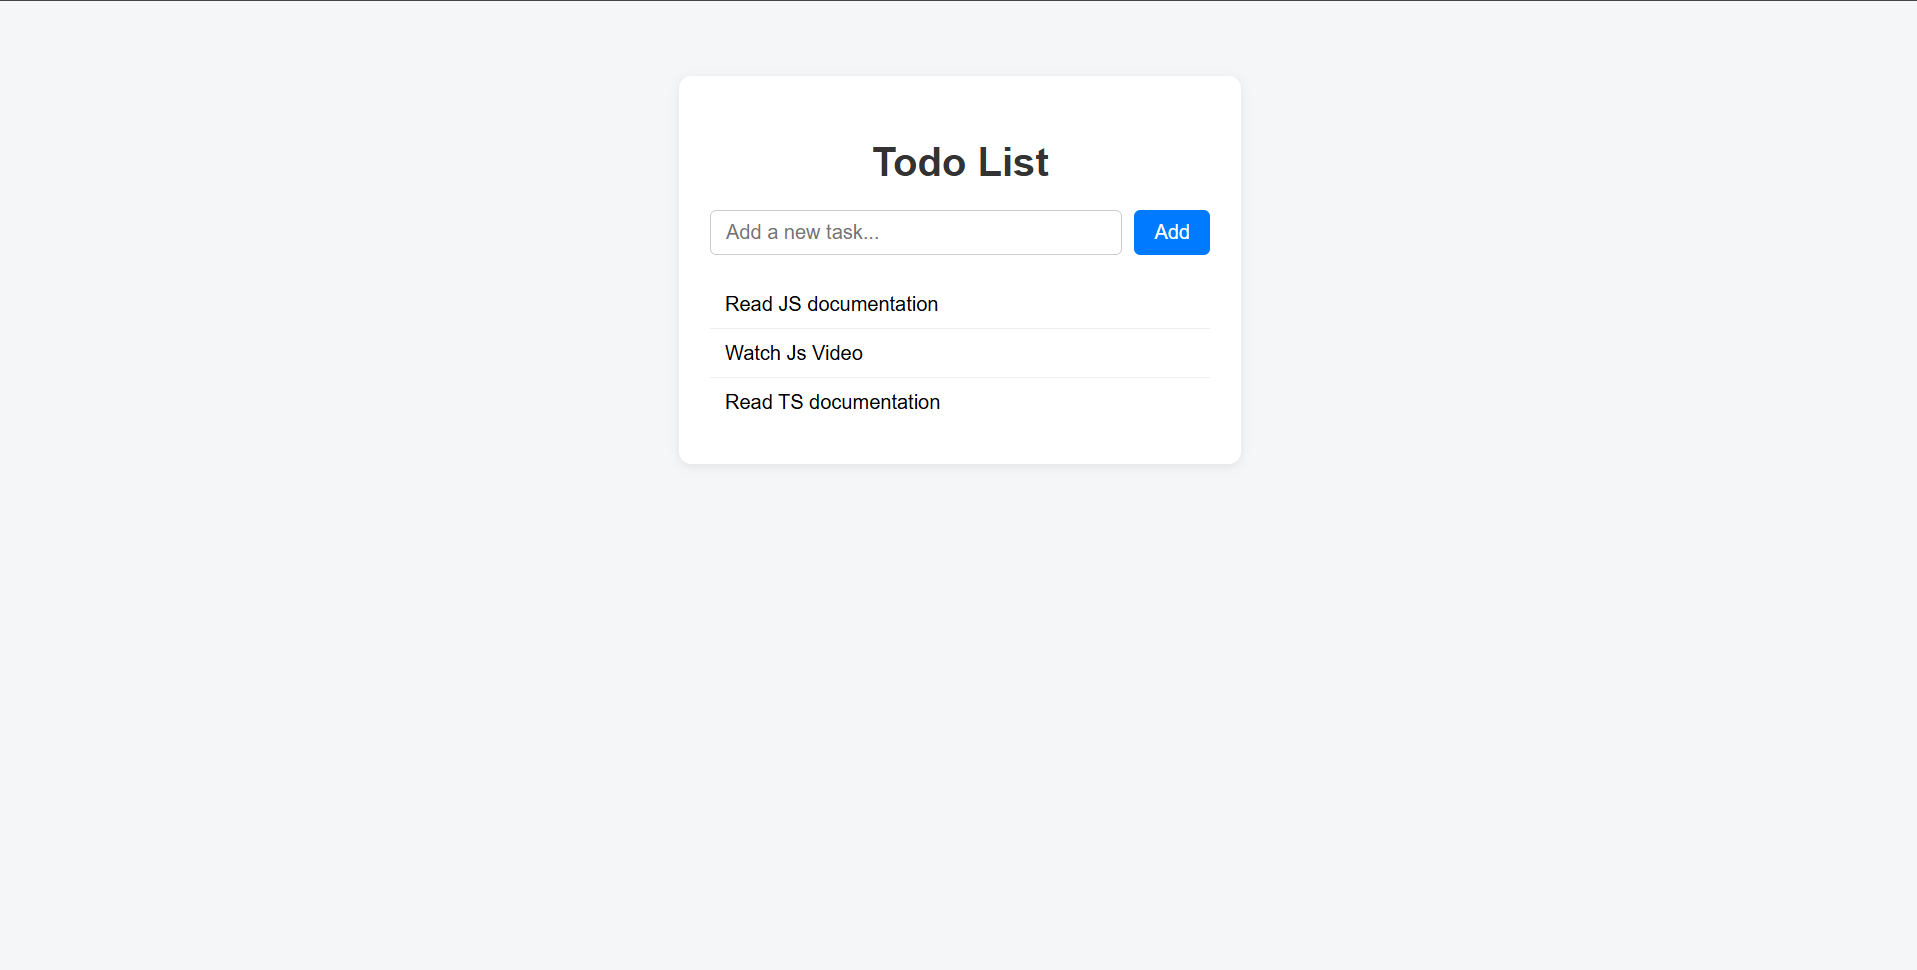
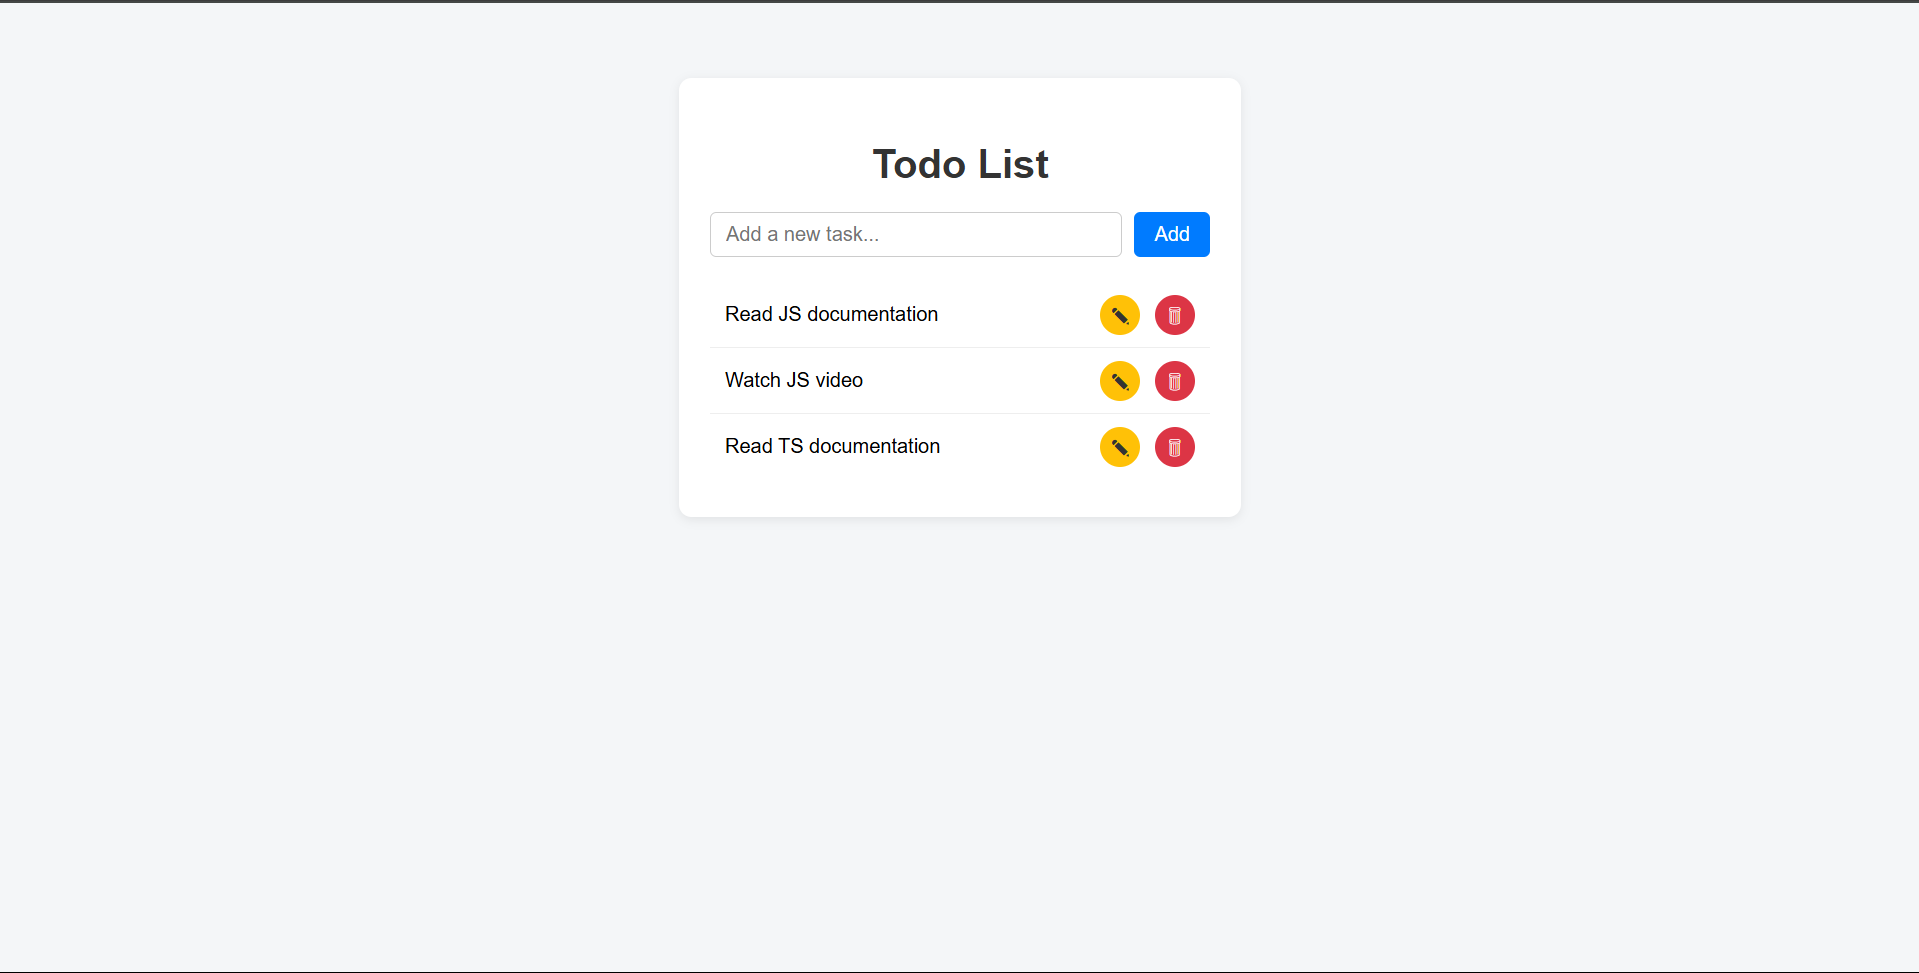
Implement task editing and deletion features in Todo List application

diff --git a/Task-1-Todo-List/main.js b/Task-1-Todo-List/main.js
@@ -6,10 +6,47 @@ form.addEventListener("submit", function (e) {
   e.preventDefault();
   if (input.value.trim() !== "") {
     const li = document.createElement("li");
-    li.textContent = input.value;
-    li.addEventListener("click", function () {
+
+    const span = document.createElement("span");
+    span.textContent = input.value;
+    span.className = "task-text";
+
+    const editBtn = document.createElement("button");
+    editBtn.innerHTML = "&#9998;"; // Pencil icon
+    editBtn.className = "edit-btn";
+    let editing = false;
+    editBtn.onclick = function () {
+      if (!editing) {
+        const editInput = document.createElement("input");
+        editInput.type = "text";
+        editInput.value = span.textContent;
+        li.replaceChild(editInput, span);
+        editBtn.innerHTML = "&#10003;";
+        editInput.focus();
+        editing = true;
+      } else {
+        const editInput = li.querySelector("input[type='text']");
+        span.textContent = editInput.value;
+        li.replaceChild(span, editInput);
+        editBtn.innerHTML = "&#9998;";
+        editing = false;
+      }
+    };
+
+    const deleteBtn = document.createElement("button");
+    deleteBtn.innerHTML = "&#128465;";
+    deleteBtn.className = "delete-btn";
+    deleteBtn.onclick = function () {
+      list.removeChild(li);
+    };
+
+    span.onclick = function () {
       li.classList.toggle("completed");
-    });
+    };
+
+    li.appendChild(span);
+    li.appendChild(editBtn);
+    li.appendChild(deleteBtn);
     list.appendChild(li);
     input.value = "";
   }

diff --git a/Task-1-Todo-List/style.css b/Task-1-Todo-List/style.css
@@ -56,6 +56,10 @@ button:hover {
 }
 
 #todo-list li {
+  display: flex;
+  align-items: center;
+  justify-content: space-between;
+  gap: 8px;
   padding: 10px 12px;
   border-bottom: 1px solid #eee;
   font-size: 16px;
@@ -71,4 +75,46 @@ button:hover {
   text-decoration: line-through;
   color: #aaa;
   background: #e9ecef;
+}
+
+.task-text {
+  flex: 1;
+  cursor: pointer;
+}
+
+.edit-btn {
+  background: #ffc107;
+  color: #333;
+  border: none;
+  border-radius: 50%;
+  width: 32px;
+  height: 32px;
+  display: flex;
+  align-items: center;
+  justify-content: center;
+  font-size: 18px;
+  margin-right: 4px;
+  cursor: pointer;
+  transition: background 0.2s;
+}
+.edit-btn:hover {
+  background: #e0a800;
+}
+
+.delete-btn {
+  background: #dc3545;
+  color: #fff;
+  border: none;
+  border-radius: 50%;
+  width: 32px;
+  height: 32px;
+  display: flex;
+  align-items: center;
+  justify-content: center;
+  font-size: 18px;
+  cursor: pointer;
+  transition: background 0.2s;
+}
+.delete-btn:hover {
+  background: #b71c1c;
 }

diff --git a/Task-1-Todo-List/Readme.md b/Task-1-Todo-List/Readme.md
@@ -14,6 +14,6 @@ This is a simple Todo List web application. It allows users to add tasks, view t
 
 ## Screenshots
 
-![alt text](images/image.png)
-![alt text](images/image-1.png)
-![alt text](images/image-2.png)
+![alt text](image/image.png)
+![alt text](image/image-1.png)
+![alt text](image/image-2.png)
